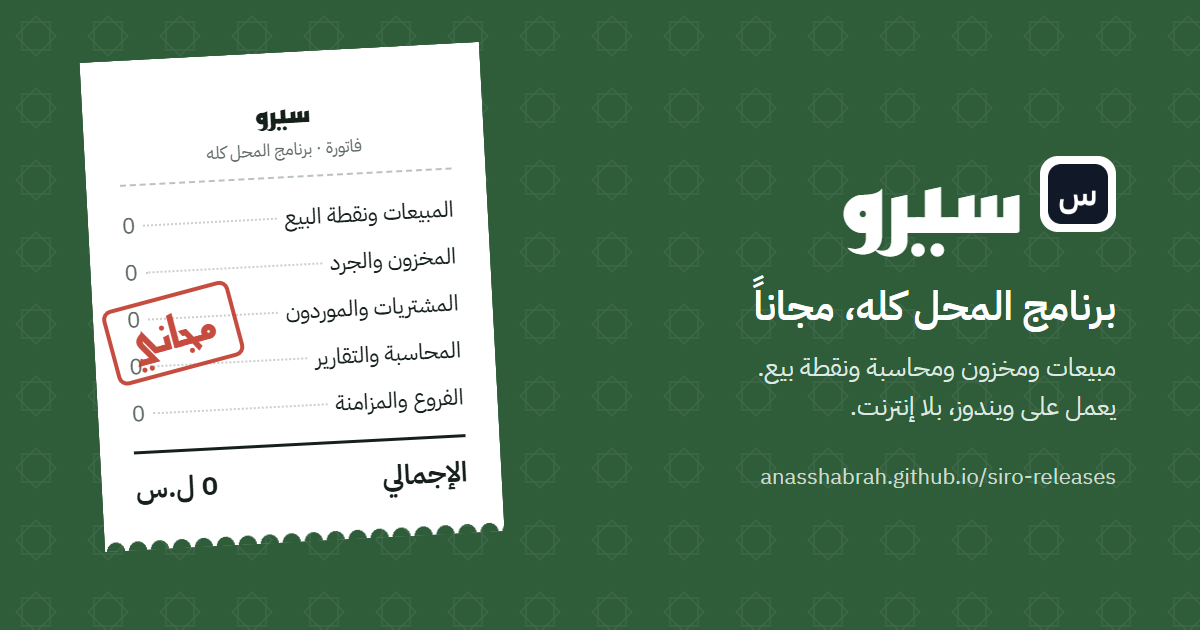
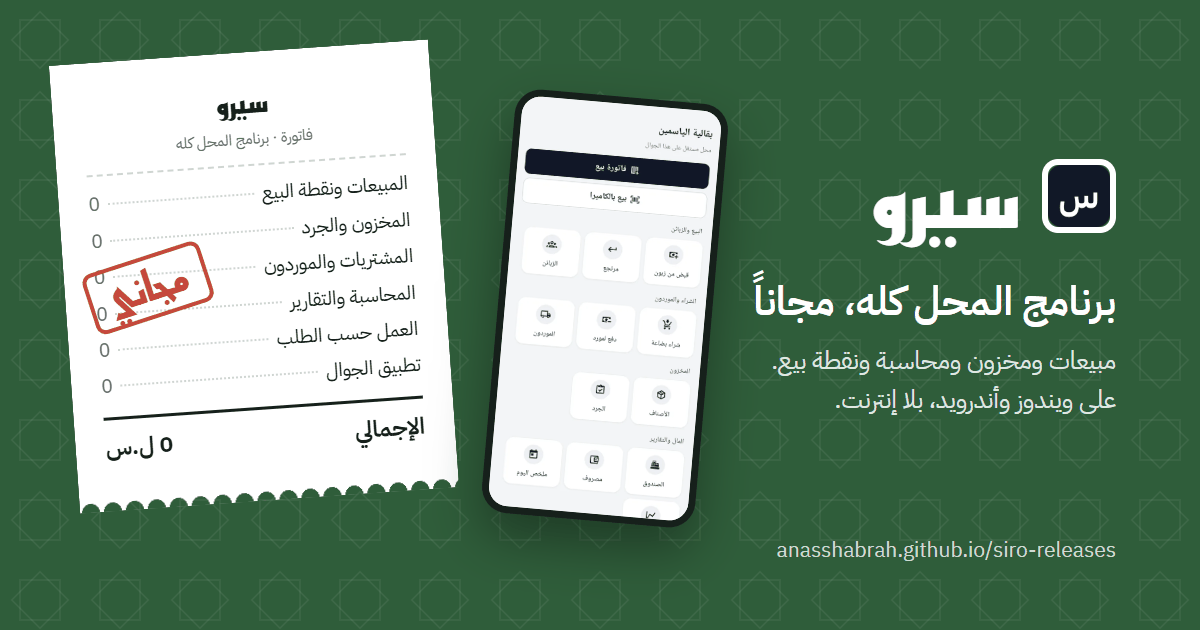
Share image: Windows and Android, with the phone app

diff --git a/index.html b/index.html
@@ -12,14 +12,14 @@
 <meta property="og:url" content="https://anasshabrah.github.io/siro-releases/">
 <meta property="og:title" content="سيرو: برنامج المحل كله، مجاناً">
 <meta property="og:description" content="مبيعات ومخزون ومحاسبة ونقطة بيع على ويندوز وأندرويد. يعمل بلا إنترنت، مجاني بالكامل.">
-<meta property="og:image" content="https://anasshabrah.github.io/siro-releases/og.png">
+<meta property="og:image" content="https://anasshabrah.github.io/siro-releases/og.png?v=2">
 <meta property="og:image:width" content="1200">
 <meta property="og:image:height" content="630">
-<meta property="og:image:alt" content="فاتورة سيرو: كل أقسام البرنامج بصفر ليرة، مختومة بكلمة مجاني">
+<meta property="og:image:alt" content="فاتورة سيرو: كل أقسام البرنامج بصفر ليرة مختومة بكلمة مجاني، وبجانبها تطبيق الجوال">
 <meta name="twitter:card" content="summary_large_image">
 <meta name="twitter:title" content="سيرو: برنامج المحل كله، مجاناً">
 <meta name="twitter:description" content="مبيعات ومخزون ومحاسبة ونقطة بيع على ويندوز وأندرويد. يعمل بلا إنترنت، مجاني بالكامل.">
-<meta name="twitter:image" content="https://anasshabrah.github.io/siro-releases/og.png">
+<meta name="twitter:image" content="https://anasshabrah.github.io/siro-releases/og.png?v=2">
 <meta name="theme-color" content="#2f5d3a">
 <link rel="icon" href="favicon.ico" sizes="any">
 <link rel="icon" href="img/icon-64.png" type="image/png">
